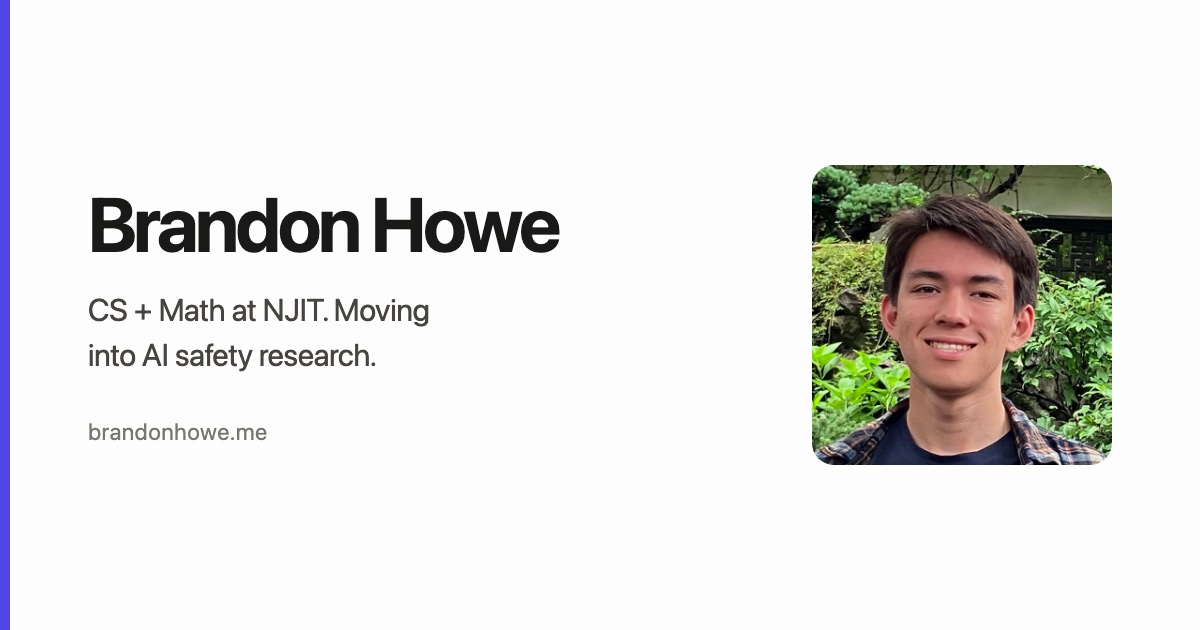
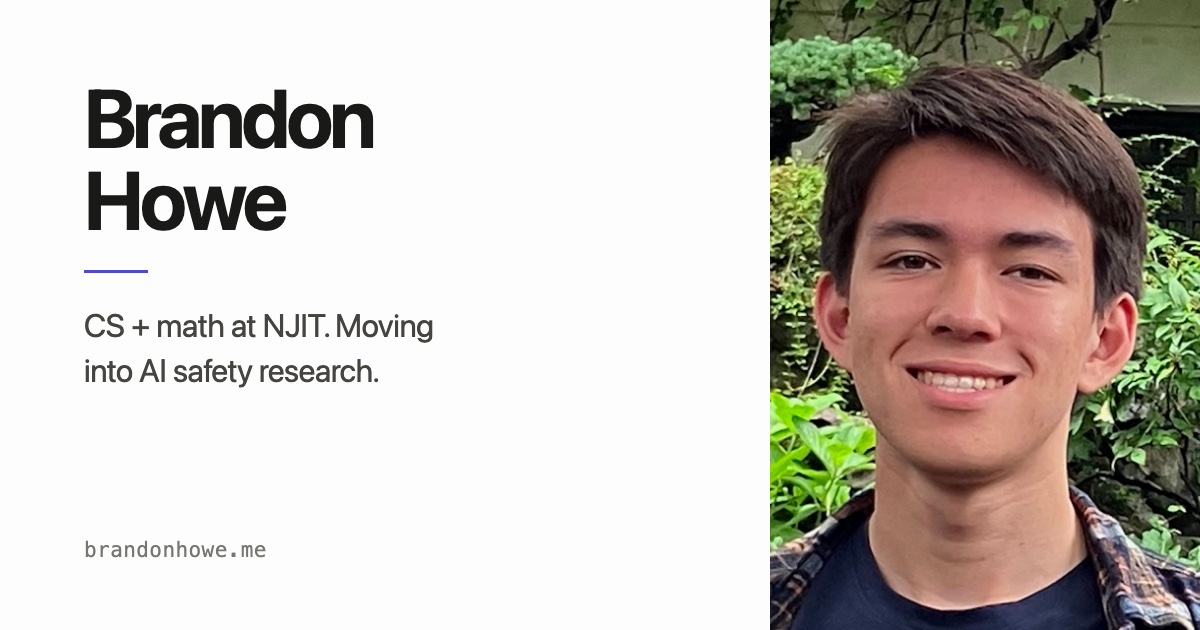
Set site description and redesign the social preview card
- Site-wide description now states the CS+math / Mechanical Solutions /
  AI safety framing; home inherits it instead of duplicating
- Replaced the OG card: full-bleed portrait and a typographic left column,
  dropping the accent stripe and floating rounded photo
- Keep the card's HTML source in tools/ so it can be regenerated

Claude-Session: https://claude.ai/code/session_0165HZoHcTapkTyLEEoTNipS

diff --git a/tools/og-card.html b/tools/og-card.html
@@ -1,0 +1,21 @@
+<html><head><meta charset="utf-8"><style>
+ *{box-sizing:border-box;margin:0}
+ body{width:1200px;height:630px;background:#fdfdfc;display:flex;overflow:hidden;
+      font-family:-apple-system,BlinkMacSystemFont,"Segoe UI",Roboto,Helvetica,Arial,sans-serif;color:#191917}
+ .left{flex:1;padding:76px 0 68px 84px;display:flex;flex-direction:column;justify-content:center}
+ h1{font-size:82px;line-height:1;letter-spacing:-.045em;font-weight:680;margin-bottom:30px}
+ .rule{width:64px;height:3px;background:#4f46e5;margin-bottom:30px}
+ p{font-size:32px;line-height:1.4;letter-spacing:-.018em;color:#45443f;max-width:20ch}
+ .url{margin-top:auto;padding-top:44px;font-size:21px;color:#78776f;
+      font-family:ui-monospace,"SF Mono",Menlo,monospace;letter-spacing:.02em}
+ /* Full-bleed portrait — no floating card, no rounded corners. */
+ .photo{width:430px;height:630px;flex-shrink:0;object-fit:cover;object-position:center 22%}
+</style></head><body>
+ <div class="left">
+   <h1>Brandon<br>Howe</h1>
+   <div class="rule"></div>
+   <p>CS&nbsp;+&nbsp;math at NJIT. Moving into AI safety research.</p>
+   <div class="url">brandonhowe.me</div>
+ </div>
+ <img class="photo" src="og-headshot.jpg" alt="">
+</body></html>

diff --git a/src/config.ts b/src/config.ts
@@ -6,7 +6,8 @@
 export const site = {
   name: "Brandon Howe",
   email: "brandon.howe006@gmail.com",
-  description: "Personal site of Brandon Howe.",
+  description:
+    "CS + math student at NJIT, software developer at Mechanical Solutions. Looking to move into AI safety research.",
 };
 
 export const nav = [

diff --git a/src/content/pages/home.md b/src/content/pages/home.md
@@ -3,9 +3,6 @@ heading: Hi, I'm Brandon Howe
 # The page reads better without a visible title, but an h1 still needs to
 # exist for screen readers and search engines. Flip to false to show it.
 hideHeading: true
-description: >-
-  Brandon Howe — CS + Math student at NJIT, software developer at Mechanical
-  Solutions, moving into AI safety research.
 ---
 
 I'm a junior studying CS + Math at [New Jersey Institute of Technology (NJIT)](https://en.wikipedia.org/wiki/New_Jersey_Institute_of_Technology). I've also been working at [Mechanical Solutions](https://www.mechsol.com) for a bit over 4 years. Over the past year I have been upskilling in [AI safety research](/blog/why-im-switching-to-ai-safety). I'm located in New Jersey.

diff --git a/tools/README.md b/tools/README.md
@@ -1,0 +1,10 @@
+# tools/
+
+`og-card.html` is the source for `public/og-image.jpg` (the social preview
+card). To change it: edit the HTML, serve this folder, screenshot at
+1200×630, and save the result over `public/og-image.jpg`.
+
+```sh
+python3 -m http.server 8000        # from this folder
+# then capture http://localhost:8000/og-card.html at 1200x630
+```
